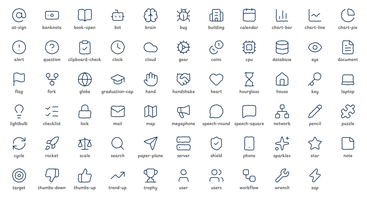
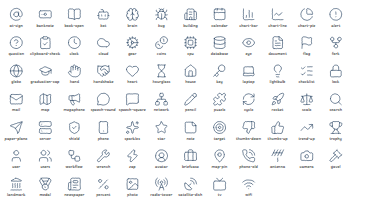
Bảng trắng: 16 doodle mới, khung ảnh tư liệu và hai bảng dựng theo ảnh tham khảo
Dựng lại hai ảnh tham khảo bằng chính bộ công cụ của style bảng trắng, không thêm màu
ngoài bảng màu và không sửa engine:

- doodles.js: thêm 16 hình (84 tổng) — đồ vật văn phòng (briefcase, phone-old, map-pin,
  avatar) và tư liệu lịch sử (radio-tower, antenna, satellite-dish, tv, wifi, newspaper,
  landmark, gavel, medal, percent, photo, camera).
- parts.js: WbPhotoFrame — ảnh tư liệu trong khung polaroid; ô để trống thì tô gạch chéo,
  làm chỗ chờ thay ảnh thật cho những hình không sinh bằng code được (bản đồ, công trình,
  chân dung, logo, lettering khối).
- demos/whiteboard-office.html: bảng doodle đồ vật văn phòng (240_F_75248279).
- demos/whiteboard-history.html: phần dựng được của bảng tư liệu lịch sử
  (original-9f701bfd…) — cụm icon có chú thích, ô chính sách, khung ảnh, trục thời gian.
- Bảng danh mục doodle xếp lại 12 cột cho vừa một khung; preview WbDoodles chụp lại,
  thêm preview + mục showcase + docsMap cho WbPhotoFrame.

Ảnh ONZ74N0.jpg (người que tô màu cạnh bảng flipchart) để lại: cần component mới và màu
ngoài bảng màu, và kéo style sang hướng explainer 2D.

Changed region(s): [[0.0, 0.1748, 0.9891, 0.9612], [0.03, 0.0291, 0.5395, 0.1456], [0.5695, 0.0291, 0.9891, 0.1456]]

diff --git a/vinuni-lesson-video-ds/ui_kits/lesson-video/demos/whiteboard-office.html b/vinuni-lesson-video-ds/ui_kits/lesson-video/demos/whiteboard-office.html
@@ -1,0 +1,84 @@
+<!doctype html>
+<html lang="vi">
+<head>
+<meta charset="utf-8" />
+<title>Whiteboard — bảng doodle văn phòng (thử nghiệm)</title>
+<link rel="stylesheet" href="../../../styles.css" />
+<style>
+  html, body { margin: 0; overflow: hidden; background: var(--color-bg); font-family: var(--font-sans); }
+</style>
+</head>
+<body>
+<div id="root"></div>
+<script src="../../../dist/vk.js"></script>
+<script>
+  // Bảng doodle "đồ vật văn phòng": dựng lại bố cục ảnh tham khảo 240_F_75248279 bằng bộ doodle của
+  // style bảng trắng — icon rải, một chuỗi ô RỦI RO → GIẢM → TRÁNH, một cụm NHÓM có nhánh đánh số.
+  // Bút vẽ lần lượt (createBoard, không lời đọc); ?frame=N để chụp một khung.
+  var C = VK.C;
+  var b = VK.createBoard({ timeline: [{ n: 1, start: 0 }], spokenAt: function () { return 0; } });
+  var d = function (id, m) { return b.draw(null, Object.assign({ id: id }, m)); };
+  b.look(0, { x: 960, y: 550, w: 1920 });
+
+  // hàng trên bên trái: thư, biểu đồ tròn, biểu đồ cột có số, mũi tên đi lên
+  d('mail', { kind: 'doodle', name: 'mail', x: 150, y: 230, size: 110 });
+  d('pie', { kind: 'doodle', name: 'chart-pie', x: 350, y: 225, size: 130 });
+  d('bars', { kind: 'doodle', name: 'chart-bar', x: 620, y: 240, size: 150, color: C.accent });
+  d('bars-1', { kind: 'text', x: 570, y: 160, text: '1', size: 44, anchor: 'middle' });
+  d('bars-2', { kind: 'text', x: 625, y: 150, text: '2', size: 44, anchor: 'middle' });
+  d('bars-3', { kind: 'text', x: 680, y: 140, text: '3', size: 44, anchor: 'middle' });
+  d('trend', { kind: 'doodle', name: 'trend-up', x: 850, y: 215, size: 120, color: C.accent });
+
+  // hàng trên bên phải: hai bong bóng thoại
+  d('bub1', { kind: 'doodle', name: 'speech-round', x: 1090, y: 195, size: 130 });
+  d('bub2', { kind: 'doodle', name: 'speech-square', x: 1160, y: 345, size: 115 });
+
+  // cột trái: đồng hồ, hai khuôn mặt, tài liệu, điện thoại bàn
+  b.clock('clock', null, 150, 430, 58, 10);
+  d('face1', { kind: 'doodle', name: 'avatar', x: 340, y: 440, size: 125 });
+  d('face2', { kind: 'doodle', name: 'avatar', x: 500, y: 440, size: 125, color: C.accent });
+  d('doc', { kind: 'doodle', name: 'document', x: 150, y: 650, size: 115 });
+  d('phone', { kind: 'doodle', name: 'phone-old', x: 340, y: 660, size: 130 });
+
+  // giữa: tên lửa và bóng đèn — hai hình lớn giữ bố cục
+  d('rocket', { kind: 'doodle', name: 'rocket', x: 730, y: 620, size: 210 });
+  VK.WbIdea(b, 'idea', null, { x: 980, y: 460, size: 165 });
+
+  // chuỗi ô: rủi ro → giảm → tránh
+  VK.WbFlow(b, 'risk', null, {
+    x: 1210, y: 500, direction: 'column', w: 270, h: 105, gap: 60, size: 44, color: C.accent,
+    items: [{ text: 'RỦI RO' }, { text: 'GIẢM' }, { text: 'TRÁNH' }]
+  });
+
+  // cụm nhóm: chữ trong vòng khoanh, ba nút đánh số nối vào — như cụm TEAM của ảnh tham khảo
+  d('team-o', { kind: 'loop', cx: 1690, cy: 430, rx: 150, ry: 95 });
+  d('team-t', { kind: 'text', x: 1690, y: 448, text: 'NHÓM', size: 54, anchor: 'middle' });
+  [
+    { id: '1', x: 1820, y: 255 },
+    { id: '2', x: 1590, y: 700 },
+    { id: '3', x: 1860, y: 620 }
+  ].forEach(function (nd) {
+    var a = Math.atan2(nd.y - 430, nd.x - 1690);
+    d('team-l' + nd.id, { kind: 'line', points: [
+      { x: 1690 + Math.cos(a) * 150, y: 430 + Math.sin(a) * 95 },
+      { x: nd.x - Math.cos(a) * 42, y: nd.y - Math.sin(a) * 42 }
+    ], color: C.accent, width: 4 });
+    d('team-o' + nd.id, { kind: 'loop', cx: nd.x, cy: nd.y, rx: 40, ry: 40, color: C.accent });
+    d('team-n' + nd.id, { kind: 'text', x: nd.x, y: nd.y + 16, text: nd.id, size: 46, anchor: 'middle', color: C.accent });
+  });
+
+  // hàng dưới: kính lúp, cặp táp, bút chì, ghim bản đồ, vòng lặp
+  d('search', { kind: 'doodle', name: 'search', x: 150, y: 860, size: 115 });
+  d('bag', { kind: 'doodle', name: 'briefcase', x: 345, y: 865, size: 125 });
+  d('pencil', { kind: 'doodle', name: 'pencil', x: 530, y: 880, size: 110 });
+  d('pin', { kind: 'doodle', name: 'map-pin', x: 900, y: 880, size: 105, color: C.red });
+  d('cycle', { kind: 'doodle', name: 'cycle', x: 1700, y: 850, size: 135, color: C.accent });
+
+  var end = b.marks.reduce(function (e, m) { return Math.max(e, b.endOf(m)); }, 0) + 45;
+  VK.mountCard('#root', {
+    width: 1920, height: 1080, duration: end,
+    render: function (f) { return VK.h(VK.Whiteboard, { frame: f, marks: b.marks, camera: b.camera }); }
+  });
+</script>
+</body>
+</html>

diff --git a/vinuni-lesson-video-ds/ui_kits/lesson-video/demos/whiteboard-history.html b/vinuni-lesson-video-ds/ui_kits/lesson-video/demos/whiteboard-history.html
@@ -1,0 +1,70 @@
+<!doctype html>
+<html lang="vi">
+<head>
+<meta charset="utf-8" />
+<title>Whiteboard — bảng tư liệu lịch sử (thử nghiệm)</title>
+<link rel="stylesheet" href="../../../styles.css" />
+<style>
+  html, body { margin: 0; overflow: hidden; background: var(--color-bg); font-family: var(--font-sans); }
+</style>
+</head>
+<body>
+<div id="root"></div>
+<script src="../../../dist/vk.js"></script>
+<script>
+  // Bảng kể chuyện lịch sử (ảnh tham khảo original-9f701bfd… — lịch sử viễn thông): phần dựng được
+  // bằng bộ doodle + parts của style bảng trắng. Cụm icon có chú thích, ô chính sách, khung ảnh tư liệu,
+  // trục thời gian, chữ viền rỗng.
+  // KHÔNG dựng bằng code (phải nhập ảnh ngoài qua images.js / PhotoCard): bản đồ quốc gia, cầu, chân
+  // dung người thật, logo thương hiệu, chữ lettering khối 3D. Ở đây chúng là khung ảnh tô gạch chéo —
+  // chỗ chờ thay bằng ảnh tư liệu có giấy phép.
+  var C = VK.C;
+  var b = VK.createBoard({ timeline: [{ n: 1, start: 0 }], spokenAt: function () { return 0; } });
+  var d = function (id, m) { return b.draw(null, Object.assign({ id: id }, m)); };
+  b.look(0, { x: 960, y: 550, w: 1920 });
+
+  // hàng trên: mốc mở đầu — khung ảnh tư liệu, toà nhà bưu điện, trạm phát sóng
+  VK.WbPhotoFrame(b, 'ph1', null, { x: 90, y: 150, w: 270, h: 300, caption: 'Ảnh tư liệu' });
+  VK.WbIconLabel(b, 'post', null, { x: 500, y: 245, doodle: 'landmark', size: 150, label: '1885', labelSize: 44 });
+  VK.WbIconLabel(b, 'tower', null, { x: 760, y: 240, doodle: 'radio-tower', size: 160, label: 'Trạm đầu tiên', labelSize: 38 });
+  d('ant', { kind: 'doodle', name: 'antenna', x: 960, y: 225, size: 105, color: C.accent });
+
+  // hàng trên bên phải: chính sách và luật lệ
+  VK.WbIconLabel(b, 'news', null, { x: 1180, y: 235, doodle: 'newspaper', size: 130, label: 'Chính sách', labelSize: 38 });
+  d('gavel', { kind: 'doodle', name: 'gavel', x: 1400, y: 240, size: 130 });
+  VK.WbIconLabel(b, 'law', null, { x: 1620, y: 240, doodle: 'scale', size: 140, label: 'Luật lệ', labelSize: 38 });
+  d('cal', { kind: 'doodle', name: 'calendar', x: 1820, y: 230, size: 105, color: C.accent });
+
+  // hàng giữa: tổng đài tay, chân dung, rồi làn sóng thiết bị
+  VK.WbIconLabel(b, 'sw', null, { x: 160, y: 585, doodle: 'phone-old', size: 140, label: 'Tổng đài tay', labelSize: 36 });
+  VK.WbPhotoFrame(b, 'ph2', null, { x: 330, y: 470, w: 250, h: 280, caption: 'Chân dung' });
+  d('dish', { kind: 'doodle', name: 'satellite-dish', x: 700, y: 560, size: 140 });
+  d('wifi', { kind: 'doodle', name: 'wifi', x: 890, y: 545, size: 115, color: C.accent });
+  d('tv', { kind: 'doodle', name: 'tv', x: 1075, y: 570, size: 140 });
+  d('mobile', { kind: 'doodle', name: 'phone', x: 1250, y: 570, size: 120, color: C.accent });
+  VK.WbIconLabel(b, 'gold', null, { x: 1460, y: 555, doodle: 'medal', size: 130, label: 'Thời hoàng kim', labelSize: 36 });
+  VK.WbIconLabel(b, 'fdi', null, { x: 1720, y: 550, doodle: 'percent', size: 120, label: 'Vốn ngoại', labelSize: 36 });
+
+  // chữ viền rỗng — chỗ của lettering trang trí trong ảnh gốc
+  d('era', { kind: 'text', x: 960, y: 720, text: '3G · 4G', size: 86, outline: true, anchor: 'middle' });
+
+  // trục thời gian dưới cùng
+  VK.WbTimeline(b, 'tl', null, {
+    x: 110, y: 855, w: 1460, size: 36,
+    items: [
+      { label: '1885', sub: 'Bưu điện' },
+      { label: '1947', sub: 'Tổng đài' },
+      { label: '1994', sub: 'Mở cửa' },
+      { label: '2005', sub: 'Di động' },
+      { label: '2020', sub: 'Băng rộng' }
+    ]
+  });
+
+  var end = b.marks.reduce(function (e, m) { return Math.max(e, b.endOf(m)); }, 0) + 45;
+  VK.mountCard('#root', {
+    width: 1920, height: 1080, duration: end,
+    render: function (f) { return VK.h(VK.Whiteboard, { frame: f, marks: b.marks, camera: b.camera }); }
+  });
+</script>
+</body>
+</html>

diff --git a/vinuni-lesson-video-ds/components/whiteboard/doodles.js b/vinuni-lesson-video-ds/components/whiteboard/doodles.js
@@ -7,12 +7,13 @@
  * Vendored subset, like LineIcon: add a name here (import + DOODLES entry) when a lesson needs a new picture.
  */
 import {
-  AtSign, Banknote, BookOpen, Bot, Brain, Bug, Building2, Calendar, ChartColumn, ChartLine, ChartPie, CircleAlert,
-  CircleQuestionMark, ClipboardCheck, Clock, Cloud, Cog, Coins, Cpu, Database, Eye, FileText, Flag, GitFork, Globe,
-  GraduationCap, Hand, Handshake, Heart, Hourglass, House, Key, Laptop, Lightbulb, ListChecks, Lock, Mail,
-  Map as MapGlyph, Megaphone, MessageCircle, MessageSquare, Network, Pencil, Puzzle, RefreshCw, Rocket, Scale,
-  Search, Send, Server, ShieldCheck, Smartphone, Sparkles, Star, StickyNote, Target, ThumbsDown, ThumbsUp, TrendingUp,
-  Trophy, User, Users, Workflow, Wrench, Zap,
+  Antenna, AtSign, Banknote, BookOpen, Bot, Brain, Briefcase, Bug, Building2, Calendar, Camera, ChartColumn,
+  ChartLine, ChartPie, CircleAlert, CircleQuestionMark, CircleUserRound, ClipboardCheck, Clock, Cloud, Cog, Coins,
+  Cpu, Database, Eye, FileText, Flag, Gavel, GitFork, Globe, GraduationCap, Hand, Handshake, Heart, Hourglass, House,
+  Image as ImageGlyph, Key, Landmark, Laptop, Lightbulb, ListChecks, Lock, Mail, Map as MapGlyph, MapPin, Medal,
+  Megaphone, MessageCircle, MessageSquare, Network, Newspaper, Pencil, Percent, PhoneCall, Puzzle, RadioTower,
+  RefreshCw, Rocket, SatelliteDish, Scale, Search, Send, Server, ShieldCheck, Smartphone, Sparkles, Star, StickyNote,
+  Target, ThumbsDown, ThumbsUp, TrendingUp, Trophy, Tv, User, Users, Wifi, Workflow, Wrench, Zap,
 } from 'lucide';
 import { curvePath, getLength, getPointAtLength } from '../../lib/paths.js';
 import { rng } from '../../lib/text.js';
@@ -29,6 +30,10 @@ export const DOODLES = Object.freeze({
   'paper-plane': Send, server: Server, shield: ShieldCheck, phone: Smartphone, sparkles: Sparkles, star: Star,
   note: StickyNote, target: Target, 'thumbs-down': ThumbsDown, 'thumbs-up': ThumbsUp, 'trend-up': TrendingUp,
   trophy: Trophy, user: User, users: Users, workflow: Workflow, wrench: Wrench, zap: Zap,
+  // đồ vật văn phòng và tư liệu lịch sử (bảng doodle dày: xem demos/whiteboard-office.html, -history.html)
+  avatar: CircleUserRound, briefcase: Briefcase, 'map-pin': MapPin, 'phone-old': PhoneCall,
+  antenna: Antenna, camera: Camera, gavel: Gavel, landmark: Landmark, medal: Medal, newspaper: Newspaper,
+  percent: Percent, photo: ImageGlyph, 'radio-tower': RadioTower, 'satellite-dish': SatelliteDish, tv: Tv, wifi: Wifi,
 });
 
 const n = (v) => Number(v) || 0;

diff --git a/vinuni-lesson-video-ds/components/whiteboard/parts.js b/vinuni-lesson-video-ds/components/whiteboard/parts.js
@@ -226,6 +226,22 @@ export function WbIdea(b, id, at, { x, y, size = 180, label, labelSize = 44, col
   return b.draw(null, { id: `${id}-t`, kind: 'text', x, y: y + size / 2 + labelSize * 1.2, text: label, size: labelSize, anchor: 'middle', color });
 }
 
+/**
+ * Ảnh tư liệu trong khung polaroid vẽ tay: khung ngoài, ô ảnh, chú thích ở dải trắng dưới.
+ * Ô ảnh để trống thì tô gạch chéo; `doodle` vẽ một hình vào giữa ô thay cho ảnh thật.
+ */
+export function WbPhotoFrame(b, id, at, { x, y, w = 360, h = 420, caption, doodle, size = 34, color, fill = 'hachure' }) {
+  const pad = Math.round(w * 0.07);
+  const strip = Math.round(h * 0.2); // dải trắng dưới ảnh, chỗ viết chú thích
+  const ih = h - pad * 2 - strip;
+  b.draw(at, { id: `${id}-frame`, kind: 'box', x, y, w, h, color });
+  b.draw(null, { id: `${id}-photo`, kind: 'box', x: x + pad, y: y + pad, w: w - pad * 2, h: ih, fill: doodle ? undefined : fill, color });
+  let last = b.marks[b.marks.length - 1];
+  if (doodle) last = b.draw(null, { id: `${id}-d`, kind: 'doodle', name: doodle, x: x + w / 2, y: y + pad + ih / 2, size: Math.min(w - pad * 4, ih - pad * 2), color });
+  if (!caption) return last;
+  return centredText(b, `${id}-cap`, null, { cx: x + w / 2, cy: y + h - pad - strip / 2, lines: [caption], size, color });
+}
+
 /** Hand-drawn table: frame, rules, then the cells row by row. rows[0] is the header when `header`. */
 export function WbTable(b, id, at, { x, y, colW, rowH = 84, rows: cells, header = true, size = 36 }) {
   const w = colW.reduce((s, c) => s + c, 0);
@@ -291,6 +307,7 @@ export const WB_PARTS = Object.freeze({
   WbIconLabel: 'Một hình vẽ tay + chú thích',
   WbIdea: 'Bóng đèn tỏa sáng — một ý tưởng',
   WbTable: 'Bảng kẻ tay, hàng tiêu đề',
+  WbPhotoFrame: 'Ảnh tư liệu trong khung polaroid vẽ tay',
   WbFlight: 'Máy bay giấy bay theo đường nét đứt',
   WbSteps: 'Bậc thang đi lên, cờ ở đỉnh',
 });

diff --git a/vinuni-lesson-video-ds/ui_kits/lesson-video/demos/whiteboard-parts.html b/vinuni-lesson-video-ds/ui_kits/lesson-video/demos/whiteboard-parts.html
@@ -45,15 +45,19 @@
     },
     WbIdea: function () { VK.WbIdea(b, 'id', 6, { x: 960, y: 480, size: 380, label: 'Ý tưởng mới', labelSize: 72 }); },
     WbTable: function () { VK.WbTable(b, 'tb', 6, { x: 260, y: 260, colW: [520, 440, 440], rowH: 130, size: 52, rows: [['Việc', 'AI làm', 'Người làm'], ['Tóm tắt', 'Có', ''], ['Quyết định', '', 'Có'], ['Kiểm tra', 'Hỗ trợ', 'Có']] }); },
+    WbPhotoFrame: function () {
+      VK.WbPhotoFrame(b, 'pf', 6, { x: 300, y: 180, w: 620, h: 720, caption: 'Ảnh tư liệu', size: 60 });
+      VK.WbPhotoFrame(b, 'pd', null, { x: 1020, y: 180, w: 620, h: 720, caption: 'Có hình thay ảnh', doodle: 'camera', size: 56 });
+    },
     WbFlight: function () { VK.WbFlight(b, 'fh', 6, { from: { x: 300, y: 800 }, to: { x: 1560, y: 360 }, bend: 280, size: 170 }); },
     WbSteps: function () { VK.WbSteps(b, 'st', 6, { x: 200, y: 900, stepW: 460, stepH: 170, size: 56, items: [{ text: 'Hiểu vấn đề' }, { text: 'Làm thử' }, { text: 'Mở rộng' }] }); },
     WbDoodles: function () {
       var names = Object.keys(VK.DOODLES);
-      var cols = 11;
+      var cols = 12;
       names.forEach(function (n, i) {
-        var x = 100 + (i % cols) * 172, y = 70 + Math.floor(i / cols) * 168;
-        b.draw(null, { id: 'dd-' + n, kind: 'doodle', name: n, x: x, y: y, size: 82, dur: 4 });
-        b.draw(null, { id: 'dn-' + n, kind: 'text', x: x, y: y + 72, text: n, size: 22, anchor: 'middle', color: C.textMuted, dur: 2 });
+        var x = 85 + (i % cols) * 152, y = 65 + Math.floor(i / cols) * 148;
+        b.draw(null, { id: 'dd-' + n, kind: 'doodle', name: n, x: x, y: y, size: 74, dur: 4 });
+        b.draw(null, { id: 'dn-' + n, kind: 'text', x: x, y: y + 64, text: n, size: 20, anchor: 'middle', color: C.textMuted, dur: 2 });
       });
     },
   };

diff --git a/vinuni-lesson-video-ds/components/whiteboard/parts.d.ts b/vinuni-lesson-video-ds/components/whiteboard/parts.d.ts
@@ -18,6 +18,7 @@ export declare const WbTimeline: Part<{ x: number; y: number; w?: number; items:
 export declare const WbBarChart: Part<{ x: number; y: number; w?: number; h?: number; bars: ({ label: string; value: number; shown?: string | number; highlight?: boolean } & Beat)[]; max?: number; size?: number }>;
 export declare const WbIconLabel: Part<{ x: number; y: number; doodle: string; size?: number; label?: string; labelSize?: number; color?: string; labelColor?: string }>;
 export declare const WbIdea: Part<{ x: number; y: number; size?: number; label?: string; labelSize?: number; color?: string }>;
+export declare const WbPhotoFrame: Part<{ x: number; y: number; w?: number; h?: number; caption?: string; doodle?: string; size?: number; color?: string; fill?: string }>;
 export declare const WbTable: Part<{ x: number; y: number; colW: number[]; rowH?: number; rows: (string | ({ text: string } & Beat))[][]; header?: boolean; size?: number }>;
 export declare const WbFlight: Part<{ from: P; to: P; bend?: number; size?: number; color?: string }>;
 export declare const WbSteps: Part<{ x: number; y: number; items: ({ text: string } & Beat)[]; stepW?: number; stepH?: number; size?: number; color?: string }>;

diff --git a/vinuni-lesson-video-ds/components/whiteboard/Whiteboard.prompt.md b/vinuni-lesson-video-ds/components/whiteboard/Whiteboard.prompt.md
@@ -20,15 +20,21 @@ video frame, not a `Series`.
 ## Doodles, clouds, trails, lettering
 
 - `{ kind: 'doodle', name, x, y, size, rotate? }` — a Lucide line icon redrawn by hand (seeded wobble), centred
-  on (x, y). Names in `doodles.js` `DOODLES` (rocket, lightbulb, paper-plane, gear, chart-bar / -line / -pie,
-  trend-up, network, users, coins, banknote, target, trophy, speech-round, question, alert, sparkles, star…);
-  add one by importing it there. Line width follows `size` (a small doodle draws finer).
+  on (x, y). Names in `doodles.js` `DOODLES` — 84 hình: việc chung (rocket, lightbulb, paper-plane, gear,
+  chart-bar / -line / -pie, trend-up, network, users, coins, banknote, target, trophy, speech-round, question,
+  alert, sparkles, star…), đồ vật văn phòng (briefcase, phone-old, map-pin, avatar) và tư liệu lịch sử
+  (radio-tower, antenna, satellite-dish, tv, wifi, newspaper, landmark, gavel, medal, percent, photo, camera);
+  add one by importing it there. Bảng đủ tên: `demos/whiteboard-parts.html?part=WbDoodles`. Line width follows `size` (a small doodle draws finer).
 - `{ kind: 'cloud', x, y, w, h, fill? }` — puffy cloud around a box: thought bubble, title badge.
 - `{ kind: 'trail', points, dash: '14 14' }` — wandering dashed path (a paper plane's flight, a loose link);
   dashed strokes draw on too (masked).
 - `fill: 'hachure'` on box / loop / cloud — marker shading clipped to the shape.
 - `outline: true` on text — hollow bubble lettering for a big title word.
-- Demo: `ui_kits/lesson-video/demos/whiteboard-doodles.html` (`?frame=N`, `?font=` to preview another font).
+- Demo: `ui_kits/lesson-video/demos/whiteboard-doodles.html` (`?frame=N`, `?font=` to preview another font);
+  `whiteboard-office.html` (bảng doodle đồ vật văn phòng) và `whiteboard-history.html` (bảng tư liệu lịch sử:
+  cụm icon có chú thích, khung ảnh, trục thời gian). Hình độc bản — bản đồ, công trình, chân dung, logo,
+  lettering khối — **không** sinh bằng doodle: nhập ảnh ngoài qua `images.js` / `PhotoCard`, hoặc để
+  `WbPhotoFrame` làm chỗ chờ.
 
 ## Authoring a board — `createBoard` (components/whiteboard/board.js)
 

diff --git a/vinuni-lesson-video-ds/components/whiteboard/Parts.prompt.md b/vinuni-lesson-video-ds/components/whiteboard/Parts.prompt.md
@@ -37,9 +37,10 @@ vị bảng. Chữ và số lấy từ kịch bản — part không tự thêm g
 | `WbIconLabel` | Một hình minh hoạ + chú thích | `x, y, doodle, size, label` |
 | `WbIdea` | "Một ý tưởng" — bóng đèn toả sáng | `x, y, size, label` |
 | `WbTable` | Bảng nhỏ kẻ tay, hàng tiêu đề | `x, y, colW[], rowH, rows[][]` |
+| `WbPhotoFrame` | Ảnh tư liệu trong khung polaroid (để trống = tô gạch chéo, chờ thay ảnh thật) | `x, y, w, h, caption, doodle` |
 | `WbFlight` | Máy bay giấy bay theo nét đứt: chuyển tiếp, gửi đi | `from, to, bend, size` |
 | `WbSteps` | Bậc thang tiến bộ, cờ ở đỉnh | `x, y, items[{ text, at? }], stepW, stepH` |
-| `WbDoodles` | Danh mục hình vẽ tay dùng cho `kind: 'doodle'` (65 hình, `DOODLES`) | xem `?part=WbDoodles` |
+| `WbDoodles` | Danh mục hình vẽ tay dùng cho `kind: 'doodle'` (81 hình, `DOODLES`) | xem `?part=WbDoodles` |
 
 - Mỗi câu lời đọc vẫn chỉ 3–5 nét chính: một part lớn (mind map, bảng) nên trải qua 2–3 câu, mỗi nhánh / hàng
   một nhịp `at`.
